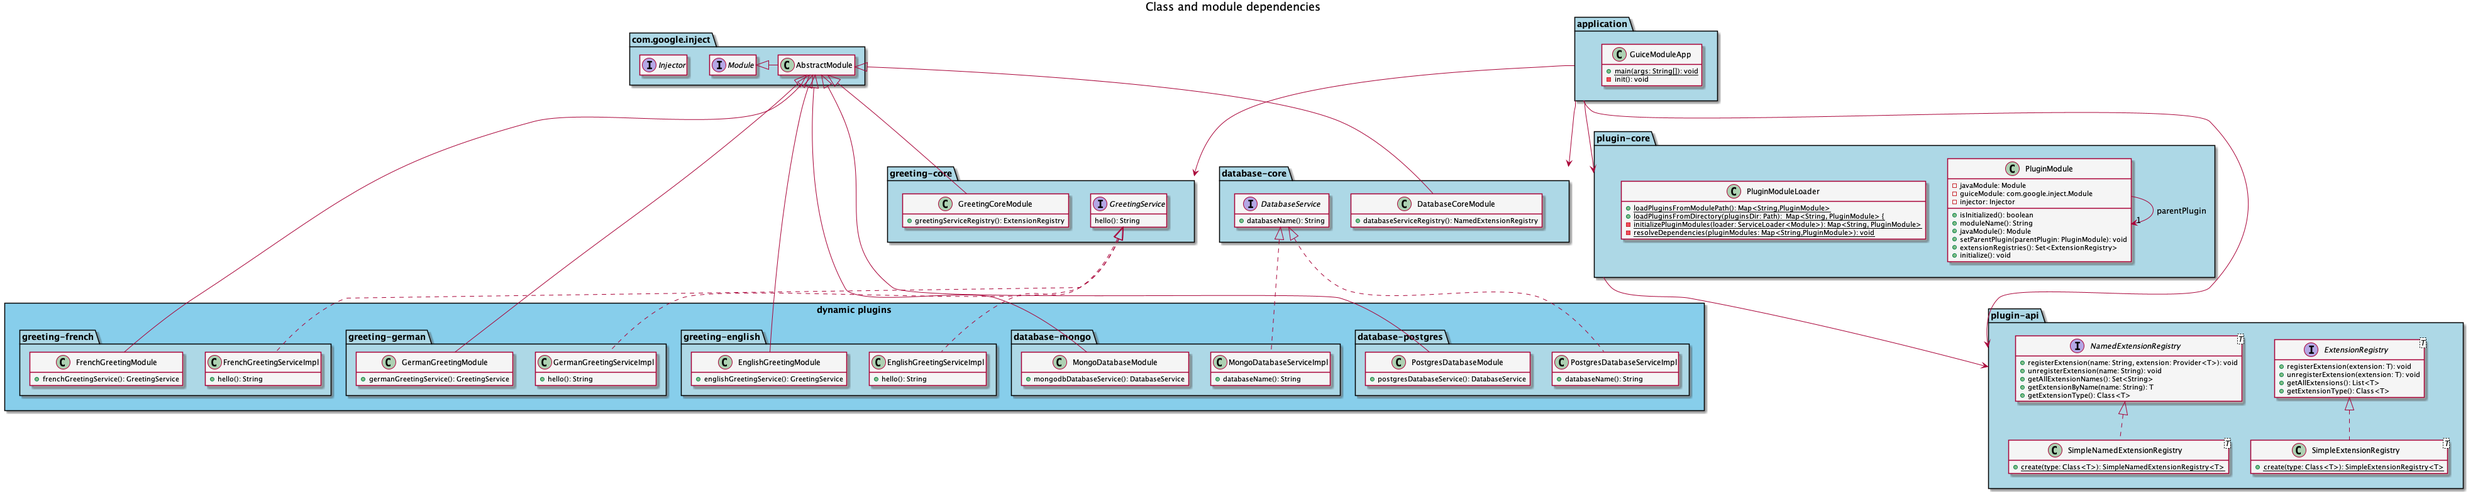
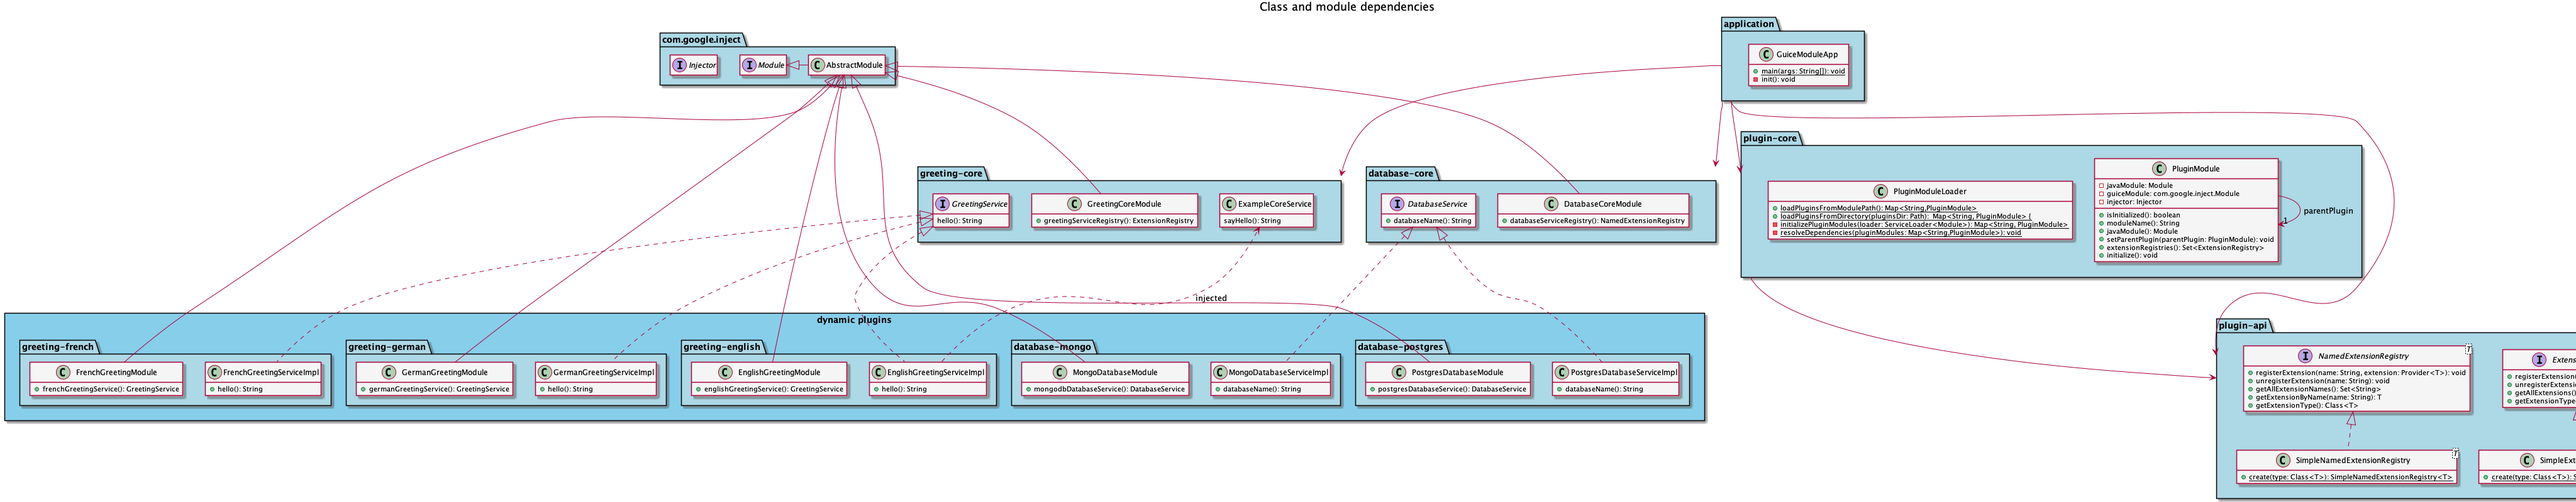
provide new ExampleCoreService as service injected from parent

diff --git a/guicejavamodule/greeting-core/src/main/java/de/vagtsi/examples/guicejavamodule/greeting/core/GreetingCoreModule.java b/guicejavamodule/greeting-core/src/main/java/de/vagtsi/examples/guicejavamodule/greeting/core/GreetingCoreModule.java
@@ -2,6 +2,7 @@ package de.vagtsi.examples.guicejavamodule.greeting.core;
 
 import javax.inject.Singleton;
 import com.google.inject.AbstractModule;
+import com.google.inject.Provides;
 import com.google.inject.multibindings.ProvidesIntoSet;
 import de.vagtsi.examples.guicejavamodule.api.ExtensionRegistry;
 import de.vagtsi.examples.guicejavamodule.api.SimpleExtensionRegistry;
@@ -12,5 +13,12 @@ public class GreetingCoreModule extends AbstractModule {
   @Singleton
   public ExtensionRegistry greetingServiceRegistry() {
     return SimpleExtensionRegistry.create(GreetingService.class);
+  }
+  
+  //provide example service to be injected into child plugins/injectors
+  @Provides
+  @Singleton
+  public ExampleCoreService exampleCoreService() {
+    return new ExampleCoreService();
   }
 }

diff --git a/guicejavamodule/greeting-english/src/main/java/de/vagtsi/examples/guicejavamodule/greeting/english/EnglishGreetingServiceImpl.java b/guicejavamodule/greeting-english/src/main/java/de/vagtsi/examples/guicejavamodule/greeting/english/EnglishGreetingServiceImpl.java
@@ -2,14 +2,14 @@ package de.vagtsi.examples.guicejavamodule.greeting.english;
 
 import org.slf4j.Logger;
 import org.slf4j.LoggerFactory;
-
+import de.vagtsi.examples.guicejavamodule.greeting.core.ExampleCoreService;
 import de.vagtsi.examples.guicejavamodule.greeting.core.GreetingService;
 
 public class EnglishGreetingServiceImpl implements GreetingService {
 	private static final Logger log = LoggerFactory.getLogger(EnglishGreetingServiceImpl.class.getSimpleName());
 
-	public EnglishGreetingServiceImpl() {
-		log.info("Created English greeting service");
+	public EnglishGreetingServiceImpl(ExampleCoreService exampleCoreService) {
+		log.info("Created English greeting service with injected core service: {}", exampleCoreService.sayHello());
 	}
 
 	@Override

diff --git a/guicejavamodule/greeting-english/src/main/java/de/vagtsi/examples/guicejavamodule/greeting/english/EnglishGreetingModule.java b/guicejavamodule/greeting-english/src/main/java/de/vagtsi/examples/guicejavamodule/greeting/english/EnglishGreetingModule.java
@@ -4,14 +4,15 @@ import javax.inject.Singleton;
 
 import com.google.inject.AbstractModule;
 import com.google.inject.multibindings.ProvidesIntoSet;
-
+import de.vagtsi.examples.guicejavamodule.greeting.core.ExampleCoreService;
 import de.vagtsi.examples.guicejavamodule.greeting.core.GreetingService;
 
 public class EnglishGreetingModule extends AbstractModule {
   
+  //provide extension which requires service from parent injector
   @ProvidesIntoSet
   @Singleton
-  public GreetingService englishGreetingService() {
-    return new EnglishGreetingServiceImpl();
+  public GreetingService englishGreetingService(ExampleCoreService exampleCoreService) {
+    return new EnglishGreetingServiceImpl(exampleCoreService);
   }
 }

diff --git a/guicejavamodule/greeting-core/src/main/java/de/vagtsi/examples/guicejavamodule/greeting/core/ExampleCoreService.java b/guicejavamodule/greeting-core/src/main/java/de/vagtsi/examples/guicejavamodule/greeting/core/ExampleCoreService.java
@@ -1,0 +1,11 @@
+package de.vagtsi.examples.guicejavamodule.greeting.core;
+
+/**
+ * Simple example service to be injected into child plugins/injectors.
+ */
+public class ExampleCoreService {
+
+  public String sayHello() {
+    return "I'm a service of the core-module!";
+  }
+}

diff --git a/guicejavamodule/plugin-core/src/main/java/module-info.java b/guicejavamodule/plugin-core/src/main/java/module-info.java
@@ -4,4 +4,6 @@ module plugin.core {
   requires transitive com.google.guice;
   requires transitive org.slf4j;
   requires transitive java.inject;
+  
+  uses com.google.inject.Module;
 }

diff --git a/guicejavamodule/application/src/main/java/module-info.java b/guicejavamodule/application/src/main/java/module-info.java
@@ -14,5 +14,4 @@ module application {
 //  requires plugin.database.mongodb;
 //  requires plugin.database.postgres;
 
-  uses com.google.inject.Module;
 }

diff --git a/guicejavamodule/README.md b/guicejavamodule/README.md
@@ -14,7 +14,8 @@ The general idea is to expose Guice module definitions as java service as explai
   ServiceLoader<Module> pluginLoader = ServiceLoader.load(com.google.inject.Module.class);
  ```
  
-Additionally this example creates one `Injector` instance for each module/plugin. In case of parent module dependencies defined by `requires` within the `module-info.java`, the `Injector` is created as child injector of that parent module in order to access any provided instances via `@Inject`. Extension services just need to be provided in their Guice module
+Additionally this example creates one `Injector` instance for each module/plugin. In case of parent module dependencies defined by `requires` within the `module-info.java`, the `Injector` is created as child injector of that parent module in order to access any provided instances via `@Inject`. As example the `EnglishGreetingServiceImpl` within the plugin `greeting-english` gets injected the `ExampleCoreService` provided by its parent plugin `greeting-core`.
+To provide extension services, the service implementations just need to be provided in their Guice module
 ```
   @ProvidesIntoSet
   @Singleton
